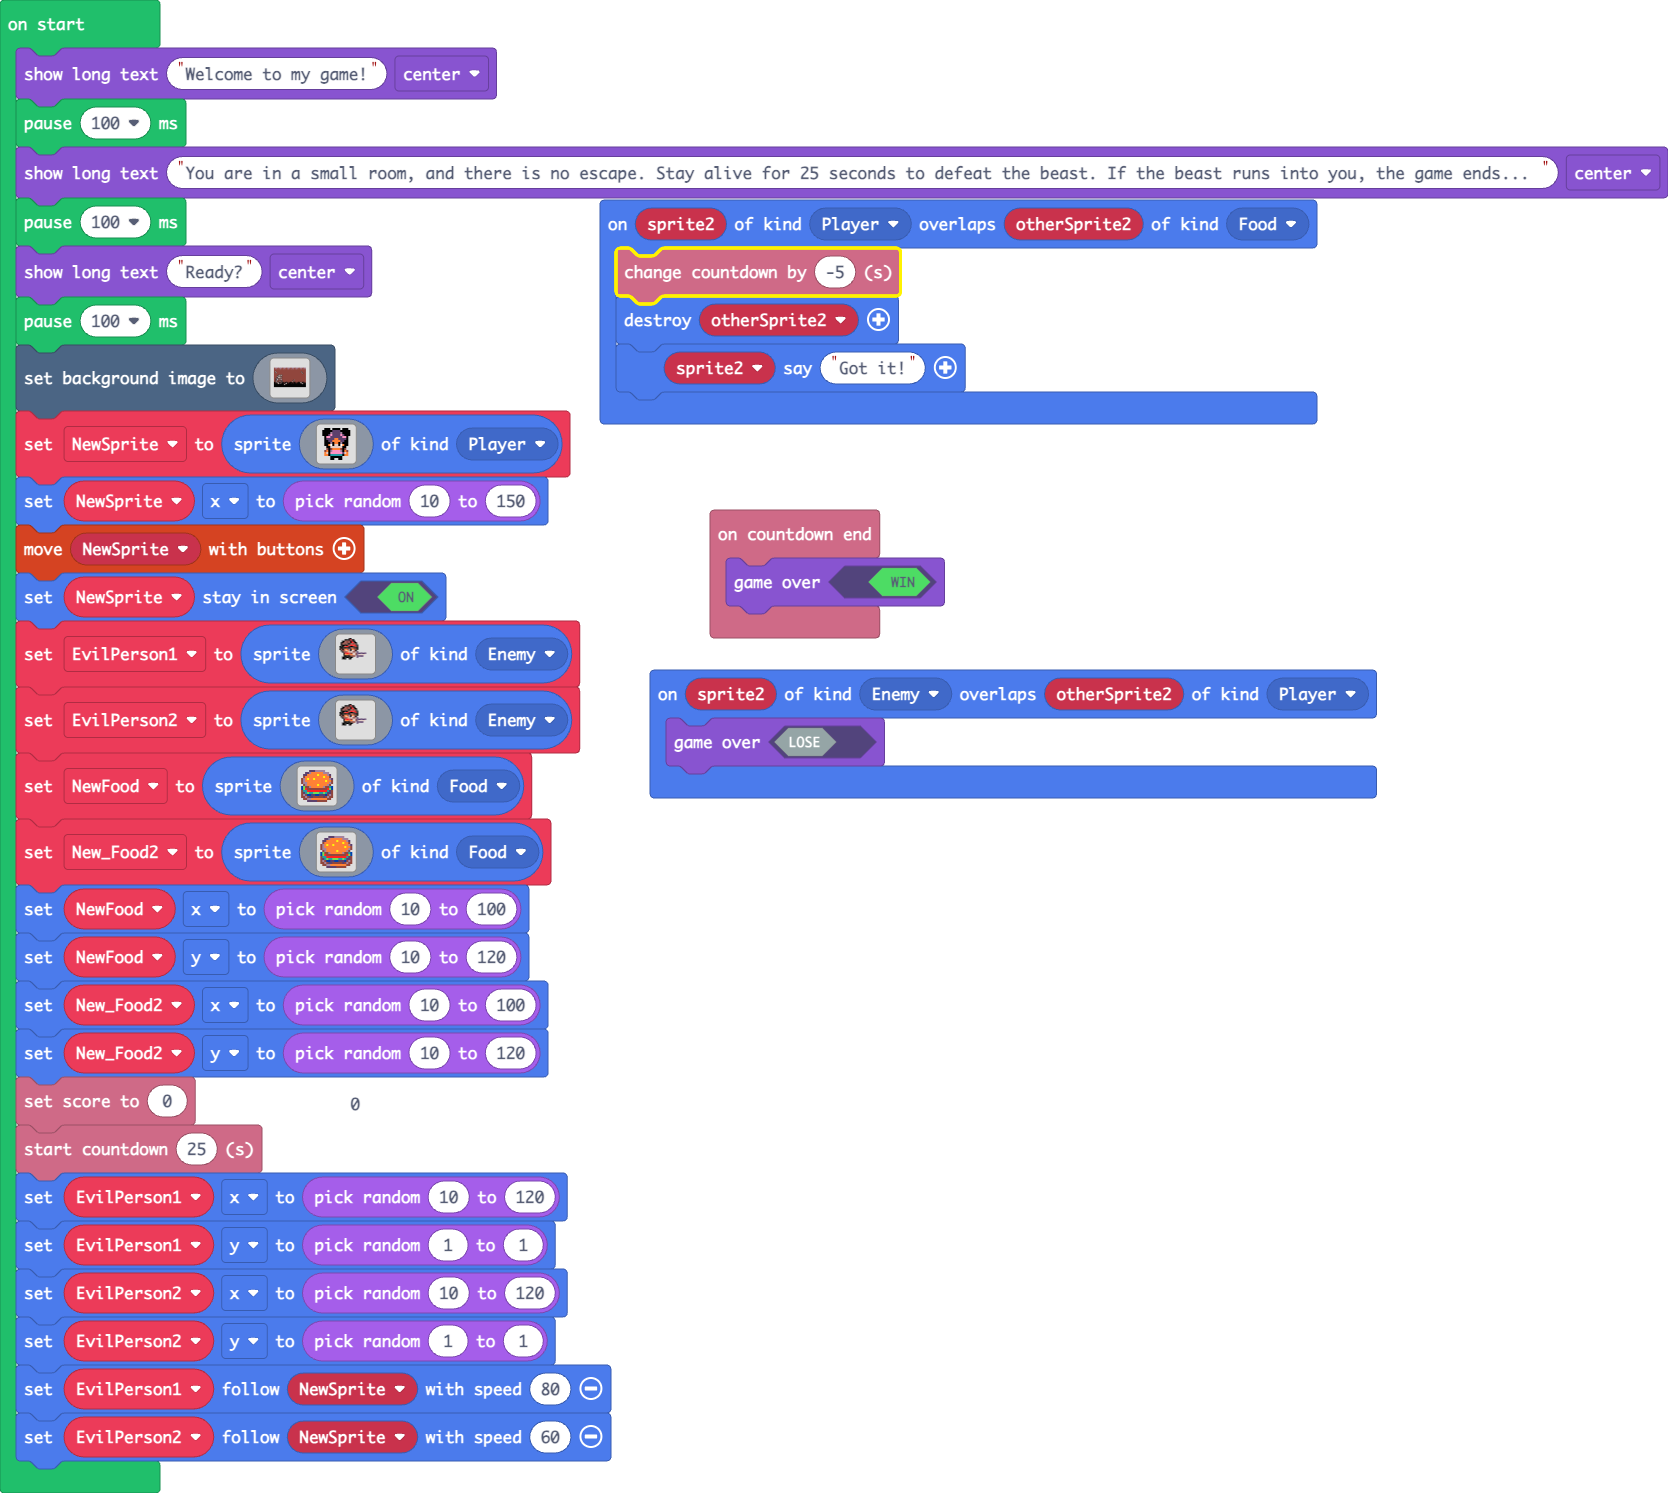
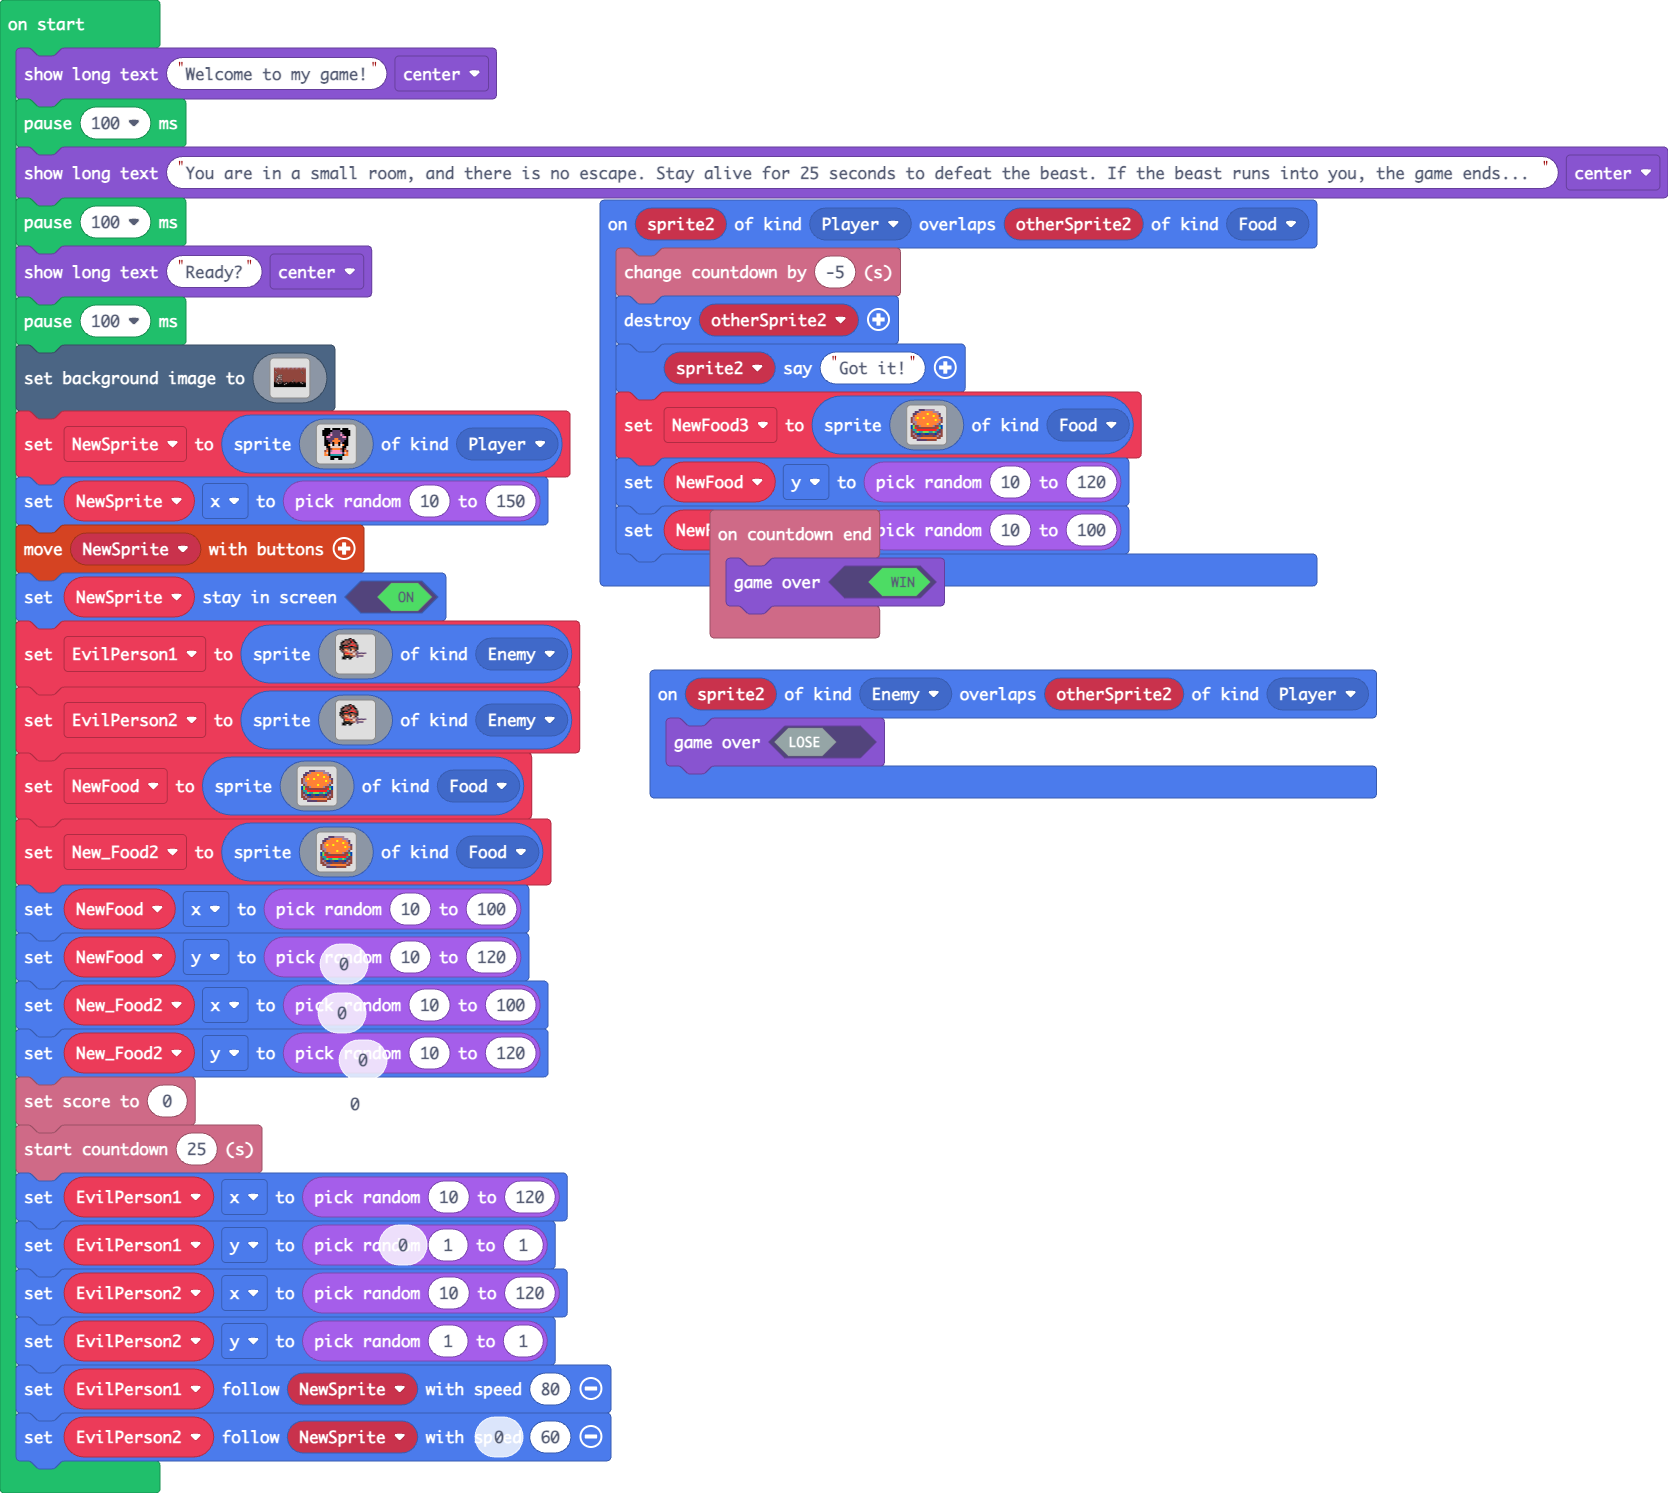
Update main.blocks, main.ts, main.py

diff --git a/main.ts b/main.ts
@@ -5,13 +5,21 @@ info.onCountdownEnd(function on_countdown_end() {
     game.gameOver(true)
 })
 sprites.onOverlap(SpriteKind.Player, SpriteKind.Food, function on_on_overlap2(sprite22: Sprite, otherSprite22: Sprite) {
+    
     info.changeCountdownBy(-5)
     sprites.destroy(otherSprite22)
     sprite22.sayText("Got it!")
+    NewFood3 = sprites.create(assets.image`
+        Burger
+    `, SpriteKind.Food)
+    NewFood.y = randint(10, 120)
+    NewFood.x = randint(10, 100)
 })
+let NewFood3 : Sprite = null
+let NewFood : Sprite = null
 game.showLongText("Welcome to my game!", DialogLayout.Center)
 pause(100)
-game.showLongText("You are in a small room, and there is no escape. Stay alive for 25 seconds to defeat the beast. If the beast runs into you, the game ends... ", DialogLayout.Center)
+game.showLongText("You are in a small room, and there is no escape. Stay alive for 25 seconds to defeat the beasts. If a beast runs into you, the game ends... ", DialogLayout.Center)
 pause(100)
 game.showLongText("Ready?", DialogLayout.Center)
 pause(100)
@@ -123,7 +131,7 @@ let EvilPerson1 = sprites.create(assets.image`
 let EvilPerson2 = sprites.create(assets.image`
     EvilPerson
 `, SpriteKind.Enemy)
-let NewFood = sprites.create(assets.image`
+NewFood = sprites.create(assets.image`
     Burger
 `, SpriteKind.Food)
 let New_Food2 = sprites.create(assets.image`

diff --git a/main.py b/main.py
@@ -7,14 +7,22 @@ def on_countdown_end():
 info.on_countdown_end(on_countdown_end)
 
 def on_on_overlap2(sprite22, otherSprite22):
+    global NewFood3
     info.change_countdown_by(-5)
     sprites.destroy(otherSprite22)
     sprite22.say_text("Got it!")
+    NewFood3 = sprites.create(assets.image("""
+        Burger
+    """), SpriteKind.food)
+    NewFood.y = randint(10, 120)
+    NewFood.x = randint(10, 100)
 sprites.on_overlap(SpriteKind.player, SpriteKind.food, on_on_overlap2)
 
+NewFood3: Sprite = None
+NewFood: Sprite = None
 game.show_long_text("Welcome to my game!", DialogLayout.CENTER)
 pause(100)
-game.show_long_text("You are in a small room, and there is no escape. Stay alive for 25 seconds to defeat the beast. If the beast runs into you, the game ends... ",
+game.show_long_text("You are in a small room, and there is no escape. Stay alive for 25 seconds to defeat the beasts. If a beast runs into you, the game ends... ",
     DialogLayout.CENTER)
 pause(100)
 game.show_long_text("Ready?", DialogLayout.CENTER)
